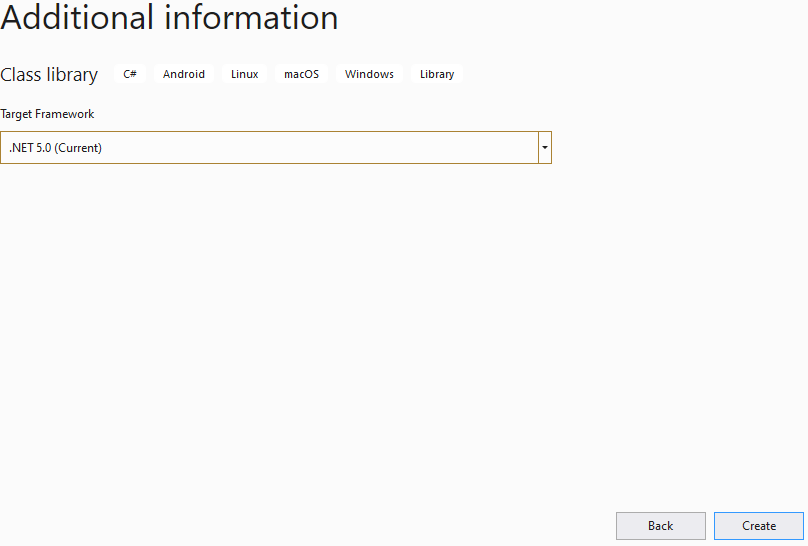
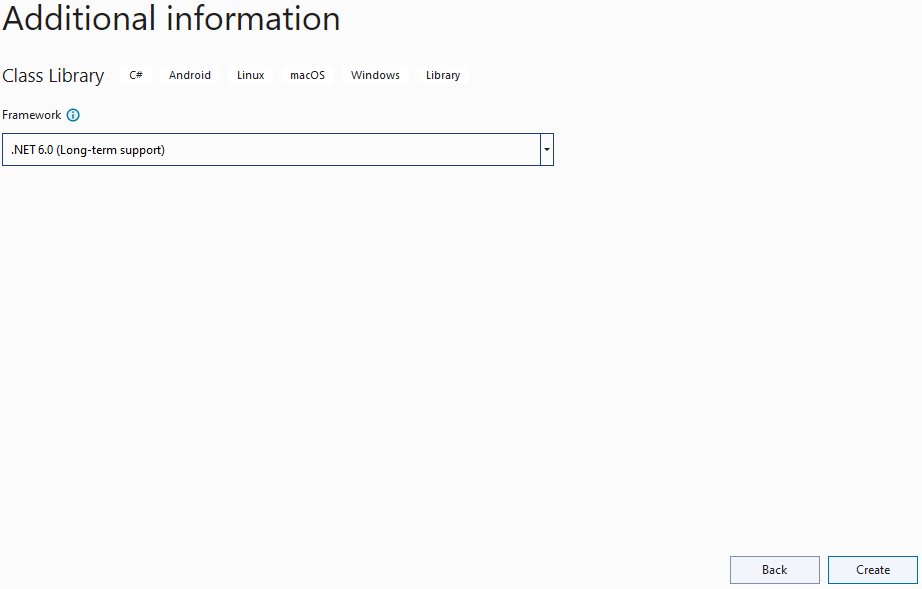
Update guide-to-expanding-the-functionality-of-the-basic-functions-of-nop-commerce-through-a-plugin.md

diff --git a/en/developer/tutorials/guide-to-expanding-the-functionality-of-the-basic-functions-of-nop-commerce-through-a-plugin.md b/en/developer/tutorials/guide-to-expanding-the-functionality-of-the-basic-functions-of-nop-commerce-through-a-plugin.md
@@ -15,17 +15,25 @@ nopCommerce uses the plugins system to extend the functionality of nopCommerce a
 
 As we know both Plugin and widget are for extending the functionality of nopCommerce solution. Well then you may ask "what is the difference between them". Ultimately in nopCommerce you can think widget as a plugin but with extra feature. In order to create widget the process is mostly the same as creating a plugin, but by using widget we can show some UI (User Interface) to nopCommerce public website in some specific areas predefined by nopCommerce which is known as widget-zones. Which we cannot achieve only via plugin. You may think Widget as a Superset of Plugin.
 
+>[!NOTE]
+>All available widget zones can be found in the `Nop.Web.Framework.Infrastructure` namespace:
+>
+>- for the admin panel can be found in the **AdminWidgetZones.cs** file.
+>
+>- for the public store can be found in the **PublicWidgetZones.cs** file.
+
+
 I think you are bit more clear about what widgets and plugins are, when they can be used and what is the benefits of using them. So, now lets go and create a simple widget that shows "Hello World" message to the public site, to understand about how to create a widget in nopCommerce.
 
 ## Initialize Plugin Project
 
 ### Step 1: Create a new project
 
-Go to the nopCommerce official website and download latest nopCommerce source code. Since right now the latest version is 4.40, this documentation is written according to v4.40. Open your nopCommerce solution in your favorite IDE (Microsoft Visual Studio is recommended). There you will see a bunch of folders, If you want to know more about the structure of the project, then first check out the article ["Source code organization"](xref:en/developer/tutorials/source-code-organization). In the roof of the solution you will see a *Plugins* folder, expand that folder and you will see a list of plugin projects shipped with nopCommerce by default.
+Go to the nopCommerce official website and download latest nopCommerce source code. Open your nopCommerce solution in your favorite IDE (Microsoft Visual Studio is recommended). If you want to know more about the structure of the project, then first check out the article ["Source code organization"](xref:en/developer/tutorials/source-code-organization). In the roof of the solution you will see a *Plugins* folder, expand that folder and you will see a list of plugin projects shipped with nopCommerce by default.
 
 ![image1](_static/guide-to-expanding-the-functionality-of-the-basic-functions-of-nop-commerce-through-a-plugin/image1.png)
 
-In order to create new Widget project, Right click on *Plugins* folder: Add=>New Project. After that add new project window will appear.
+In order to create new Widget project, Right click on *Plugins* folder: **Add** -> **New Project**. After that add new project window will appear.
 
 ![image2](_static/guide-to-expanding-the-functionality-of-the-basic-functions-of-nop-commerce-through-a-plugin/image2.png)
 
@@ -33,7 +41,7 @@ Select the **Class Library** project template and go to the next step, where you
 
 ![image2_1](_static/guide-to-expanding-the-functionality-of-the-basic-functions-of-nop-commerce-through-a-plugin/image2_1.png)
 
- nopCommerce follows some standard naming conversion, which you can get more information from nopCommerce documentation. I have choose `Nop.Plugin.Widget.HelloWorld` as my project name by following the naming conversion of nopCommerce. And the location should be inside */source/Plugins* directory. Now click "Next".
+ nopCommerce follows some standard naming conversion, which you can get more information from nopCommerce documentation. I have choose `Nop.Plugin.Widget.HelloWorld` as my project name by following the naming conversion of nopCommerce. And the location should be inside */src/Plugins* directory. Now click **Next**.
 
 ![image2_2](_static/guide-to-expanding-the-functionality-of-the-basic-functions-of-nop-commerce-through-a-plugin/image2_2.png)
 
@@ -50,7 +58,7 @@ After you create your project successfully open its `.csproj` file, for that rig
 ```xml
 <Project Sdk="Microsoft.NET.Sdk">
     <PropertyGroup>
-        <TargetFramework>net5.0</TargetFramework>
+        <TargetFramework>net6.0</TargetFramework>
         <Copyright>SOME_COPYRIGHT</Copyright>
         <Company>YOUR_COMPANY</Company>
         <Authors>SOME_AUTHORS</Authors>
@@ -85,7 +93,7 @@ This file is required for every *Plugin* or *Widget* we create in nopCommerce. T
 
 ### Step 4: Create a class that extends from BasePlugin Class
 
-Actually we need to have a class that inherent from `IPlugin` interface so that nopCommerce treats our project as plugin. But nopCommerce already has a class `BasePlugin` that inherits  from `IPlugin` interface and implements all methods from that interface. So, instead of inheriting from `IPlugin` interface we can extend from `BasePlugin` class. If we have some logic that needs to be executed during our plugin/widget installation and uninstallation process then we can override `InstallAsync` and `UninstallAsync` method from BasePlugin class to our class. Finally the class should look like this
+Actually we need to have a class that inherent from `IPlugin` interface so that nopCommerce treats our project as plugin. But nopCommerce already has a class `BasePlugin` that inherits  from `IPlugin` interface and implements all methods from that interface. So, instead of inheriting from `IPlugin` interface we can extend from `BasePlugin` class. If we have some logic that needs to be executed during our plugin/widget installation and uninstallation process then we can override `InstallAsync` and `UninstallAsync` method from `BasePlugin` class to our class. Finally the class should look like this
 
 ```cs
 public class HelloWorldPlugin: BasePlugin
@@ -124,7 +132,7 @@ First we need to create a `ViewComponent`. Create a directory *Components* in th
 [ViewComponent(Name = "HelloWorldWidget")]
 public class ExampleWidgetViewComponent: NopViewComponent
 {
-    public IViewComponentResult Invoke(string widgetZone)
+    public IViewComponentResult Invoke(string widgetZone, object additionalData)
     {
         return Content("Hello World");
     }

diff --git a/en/developer/tutorials/inversion-of-control.md b/en/developer/tutorials/inversion-of-control.md
@@ -2,7 +2,7 @@
 title: Inversion of Control and Dependency Injection
 uid: en/developer/tutorials/inversion-of-control
 author: git.AndreiMaz
-contributors: git.exileDev
+contributors: git.exileDev, git.DmitriyKulagin
 ---
 
 # Inversion of Control and Dependency Injection
